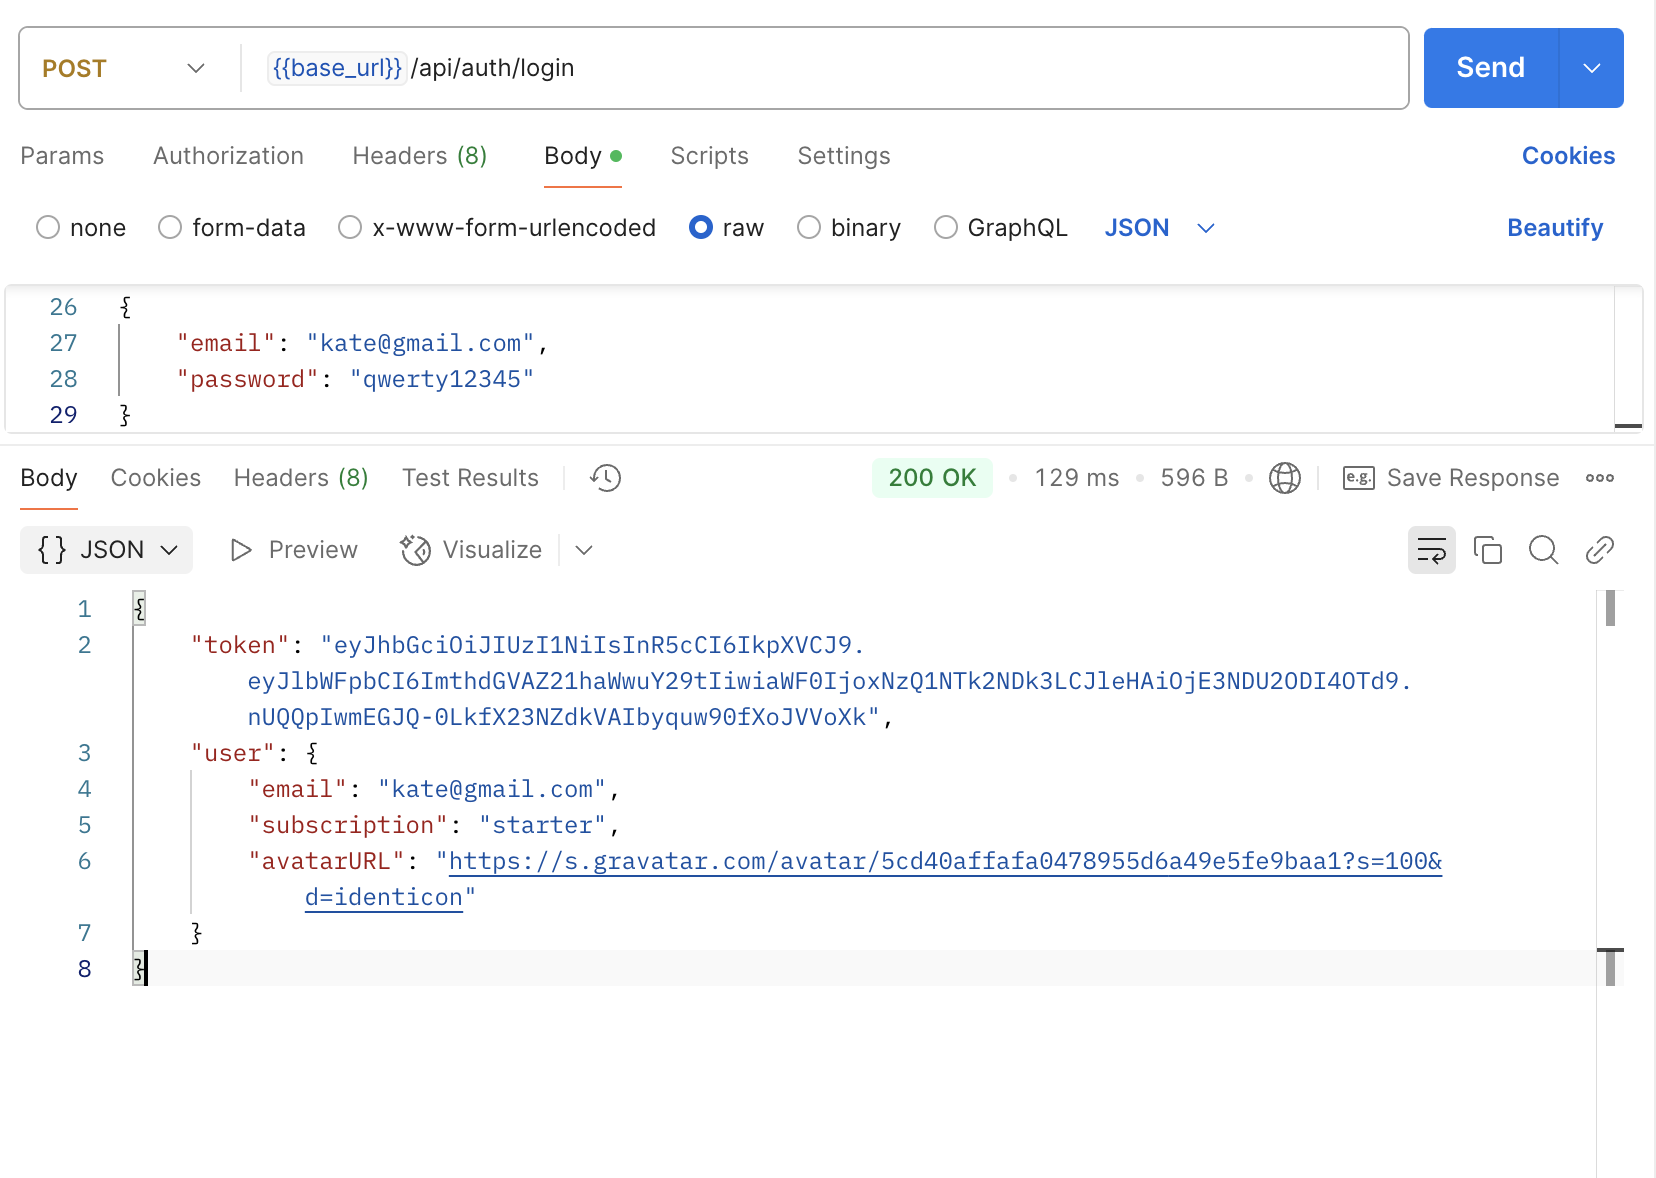
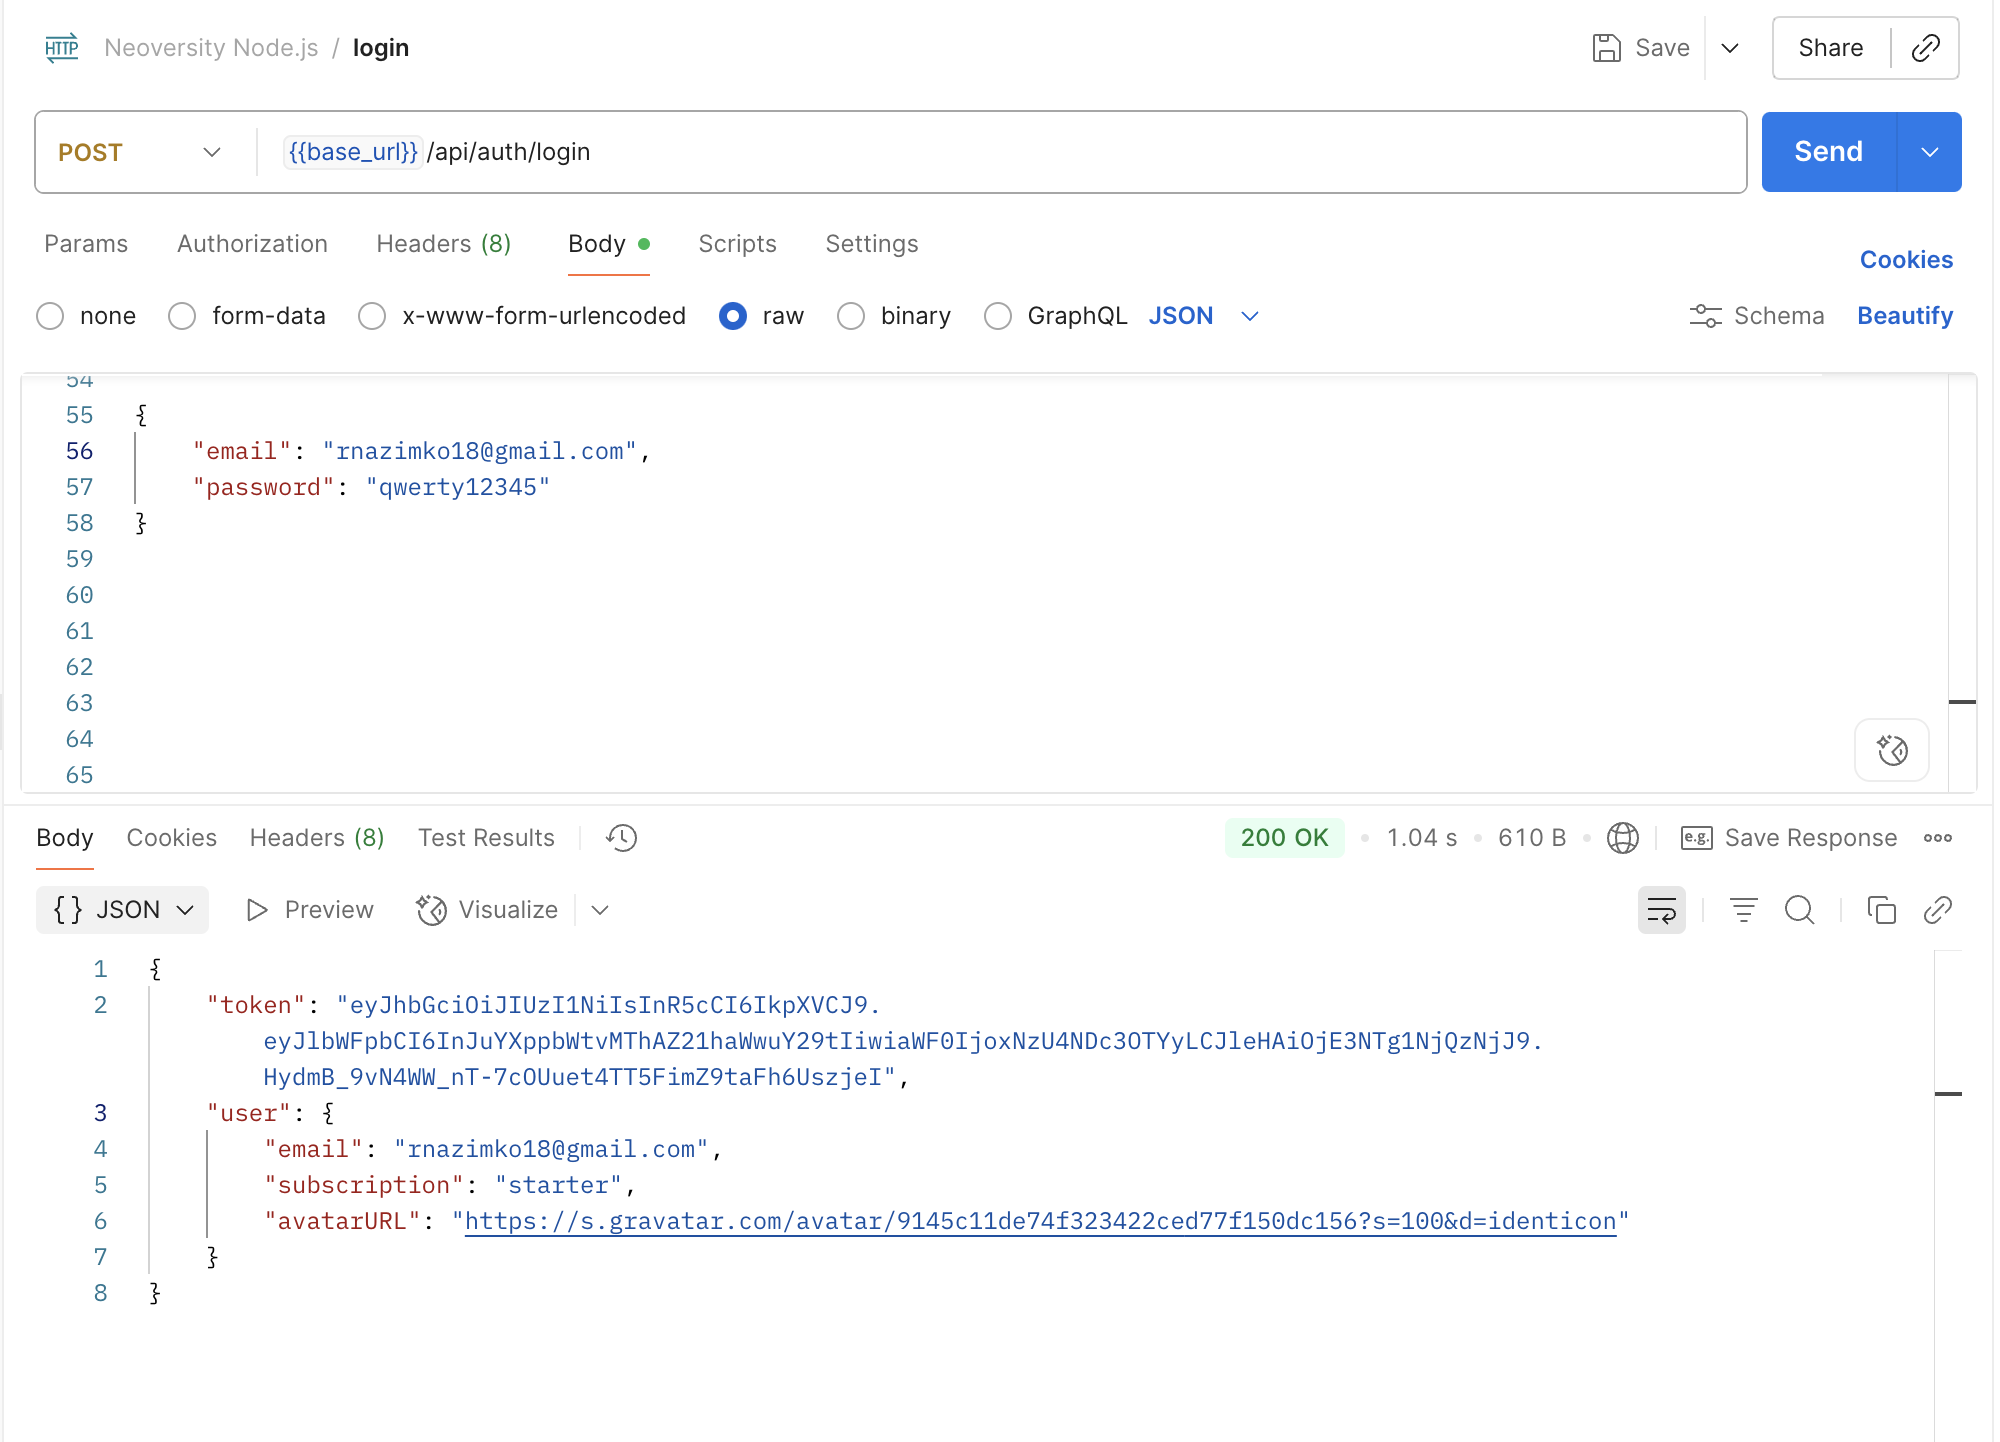
hw is completed

diff --git a/services/authServices.js b/services/authServices.js
@@ -1,8 +1,12 @@
 import bcrypt from 'bcrypt';
 import gravatar from 'gravatar';
+import { generateToken } from '../helpers/jwt.js';
+import { nanoid } from 'nanoid';
+import { v4 as uuidv4 } from 'uuid';
+
 import User from '../db/models/User.js';
 import HttpError from '../helpers/HttpError.js';
-import { generateToken } from '../helpers/jwt.js';
+import { sendVerificationEmail } from '../helpers/emailService.js';
 
 export const findUser = query =>
   User.findOne({
@@ -26,11 +30,20 @@ export const registerUser = async data => {
 
   const avatarURL = gravatar.url(email, { s: '100', d: 'identicon' }, true);
 
+  const verificationToken = uuidv4();
+
   const newUser = await User.create({
     ...data,
     password: hashPassword,
     avatarURL,
+    verificationToken,
   });
+
+  try {
+    await sendVerificationEmail(newUser.email, verificationToken);
+  } catch (error) {
+    console.error('Failed to send verification email:', error.message);
+  }
 
   return {
     email: newUser.email,
@@ -50,6 +63,13 @@ export const loginUser = async data => {
 
   if (!user) {
     throw HttpError(401, 'Email or password invalid');
+  }
+
+  if (!user.verify) {
+    throw HttpError(
+      401,
+      'Email not verified. Please check your email to verify your account'
+    );
   }
 
   const passwordCompare = await bcrypt.compare(password, user.password);
@@ -87,4 +107,47 @@ export const updateUserAvatar = async (id, data) => {
 
   await user.update(data);
   return user;
+};
+
+export const verifyEmail = async verificationToken => {
+  const user = await User.findOne({
+    where: { verificationToken },
+  });
+
+  if (!user) {
+    return null;
+  }
+
+  await user.update(
+    {
+      verify: true,
+      verificationToken: null,
+    },
+    { where: { id: user.id } }
+  );
+
+  return user;
+};
+
+export const resendVerificationEmail = async email => {
+  const user = await User.findOne({ where: { email } });
+
+  if (!user) {
+    return null;
+  }
+
+  if (user.verify) {
+    return { verified: true };
+  }
+
+  if (!user.verificationToken) {
+    const verificationToken = uuidv4();
+    await User.update({ verificationToken }, { where: { id: user.id } });
+
+    await sendVerificationEmail(email, verificationToken);
+    return { sent: true };
+  }
+
+  await sendVerificationEmail(email, user.verificationToken);
+  return { sent: true };
 };

diff --git a/helpers/emailService.js b/helpers/emailService.js
@@ -1,0 +1,49 @@
+// helpers/emailService.js
+import nodemailer from 'nodemailer';
+import 'dotenv/config';
+
+const { UKR_NET_EMAIL, UKR_NET_PASSWORD, BASE_URL } = process.env;
+
+if (!UKR_NET_EMAIL || !UKR_NET_PASSWORD) {
+  throw new Error('Email or password not defined in environment variables');
+}
+
+const transport = nodemailer.createTransport({
+  host: 'smtp.ukr.net',
+  port: 465,
+  secure: true,
+  auth: {
+    user: UKR_NET_EMAIL,
+    pass: UKR_NET_PASSWORD,
+  },
+});
+
+export const sendVerificationEmail = async (email, verificationToken) => {
+  const verificationLink = `${BASE_URL}/api/auth/verify/${verificationToken}`;
+
+  const mailOptions = {
+    from: UKR_NET_EMAIL,
+    to: email,
+    subject: 'Підтвердження реєстрації',
+    html: `
+      <div style="font-family: Arial, sans-serif; padding: 20px; background-color: #f4f4f4;">
+        <div style="max-width: 600px; margin: 0 auto; background-color: #ffffff; padding: 30px; border-radius: 8px; box-shadow: 0 2px 4px rgba(0,0,0,0.1);">
+          <h2 style="color: #333333; text-align: center;">Ласкаво просимо!</h2>
+          <p style="font-size: 16px; color: #666666;">
+            Дякуємо за реєстрацію. Щоб завершити процес, будь ласка, підтвердіть свою електронну пошту, натиснувши на кнопку нижче:
+          </p>
+          <div style="text-align: center; margin: 30px 0;">
+            <a href="${verificationLink}" style="background-color: #4CAF50; color: white; padding: 14px 24px; text-decoration: none; border-radius: 5px; font-size: 16px;">
+              Підтвердити Email
+            </a>
+          </div>
+          <p style="font-size: 14px; color: #999999; text-align: center;">
+            Якщо ви не реєструвались у нас, просто ігноруйте цей лист.
+          </p>
+        </div>
+      </div>
+    `,
+  };
+
+  await transport.sendMail(mailOptions);
+};

diff --git a/schemas/authSchemas.js b/schemas/authSchemas.js
@@ -2,12 +2,35 @@ import Joi from 'joi';
 import { emailRegexp } from '../constants/regexp.js';
 
 export const authRegisterSchema = Joi.object({
-  email: Joi.string().pattern(emailRegexp).required(),
-  password: Joi.string().min(6).required(),
+  email: Joi.string().pattern(emailRegexp).required().messages({
+    'string.email': 'Enter a valid email',
+    'string.empty': 'Email is required',
+    'any.required': 'missing required field email',
+  }),
+  password: Joi.string().min(6).required().messages({
+    'string.min': 'Password should be at least {#limit} characters long',
+    'string.empty': 'Password is required',
+    'any.required': 'missing required field password',
+  }),
   subscription: Joi.string().valid('starter', 'pro', 'business'),
 });
 
 export const authLoginSchema = Joi.object({
-  email: Joi.string().pattern(emailRegexp).required(),
-  password: Joi.string().min(6).required(),
+  email: Joi.string().pattern(emailRegexp).required().messages({
+    'string.pattern.base': 'Enter a valid email',
+    'string.empty': 'Email is required',
+    'any.required': 'missing required field email',
+  }),
+  password: Joi.string().min(6).required().messages({
+    'string.empty': 'Password is required',
+    'any.required': 'missing required field password',
+  }),
+});
+
+export const emailSchema = Joi.object({
+  email: Joi.string().pattern(emailRegexp).required().messages({
+    'string.pattern.base': 'Enter a valid email',
+    'string.empty': 'Email is required',
+    'any.required': 'missing required field email',
+  }),
 });

diff --git a/controllers/authControllers.js b/controllers/authControllers.js
@@ -84,10 +84,47 @@ export const updateAvatarController = ctrlWrapper(async (req, res) => {
   res.status(200).json({ avatarURL: newAvatarURL });
 });
 
+const verifyEmail = async (req, res) => {
+  const { verificationToken } = req.params;
+
+  const user = await authServices.verifyEmail(verificationToken);
+  if (!user) {
+    throw HttpError(404, 'User not found');
+  }
+
+  res.status(200).json({
+    message: 'Verification successful',
+  });
+};
+
+const resendVerificationEmail = async (req, res) => {
+  const { email } = req.body;
+
+  if (!email) {
+    throw HttpError(400, 'missing required field email');
+  }
+
+  const result = await authServices.resendVerificationEmail(email);
+
+  if (!result) {
+    throw HttpError(404, 'User not found');
+  }
+
+  if (result.verified) {
+    throw HttpError(400, 'Verification has already been passed');
+  }
+
+  res.status(200).json({
+    message: 'Verification email sent',
+  });
+};
+
 export default {
   registerController: ctrlWrapper(registerController),
   loginController: ctrlWrapper(loginController),
   logoutController: ctrlWrapper(logoutController),
   getCurrentController: ctrlWrapper(getCurrentController),
   updateAvatarController: ctrlWrapper(updateAvatarController),
+  verifyEmail: ctrlWrapper(verifyEmail),
+  resendVerificationEmail: ctrlWrapper(resendVerificationEmail),
 };

diff --git a/routes/authRouter.js b/routes/authRouter.js
@@ -5,7 +5,11 @@ import upload from '../middlewares/upload.js';
 import authControllers from '../controllers/authControllers.js';
 import validateBody from '../decorators/validateBody.js';
 
-import { authRegisterSchema, authLoginSchema } from '../schemas/authSchemas.js';
+import {
+  authRegisterSchema,
+  authLoginSchema,
+  emailSchema,
+} from '../schemas/authSchemas.js';
 
 const authRouter = express.Router();
 
@@ -30,5 +34,13 @@ authRouter.patch(
   authenticate,
   upload.single('avatar'),
   authControllers.updateAvatarController
+);
+
+authRouter.get('/verify/:verificationToken', authControllers.verifyEmail);
+
+authRouter.post(
+  '/verify',
+  validateBody(emailSchema),
+  authControllers.resendVerificationEmail
 );
 export default authRouter;

diff --git a/db/models/User.js b/db/models/User.js
@@ -32,6 +32,13 @@ const User = sequelize.define(
       type: DataTypes.STRING,
       allowNull: true,
     },
+    verify: {
+      type: DataTypes.BOOLEAN,
+      defaultValue: false,
+    },
+    verificationToken: {
+      type: DataTypes.STRING,
+    },
   },
   {
     createdAt: false,

diff --git a/README.md b/README.md
@@ -1,13 +1,21 @@
-# Домашнє завдання. Тема 9. Робота з файлами та тестування додатків
+# Домашнє завдання. Тема 11. Websockets
 
 ### Результати виконаного ДЗ
 
-![Results](./assets/register_201.png)
+![Results](./assets/register.png)
+
+![Results](./assets/login_401.png)
+
+![Results](./assets/email.png)
+
+![Results](./assets/message.png)
 
 ![Results](./assets/login_200.png)
 
-![Results](./assets/current_200.png)
+![Results](./assets/verify_400_missing.png)
 
-![Results](./assets/current_error.png)
+![Results](./assets/verify_200.png)
 
-![Results](./assets/avatar.png)
+![Results](./assets/verify_404.png)
+
+![Results](./assets/verifyToken_200.png)
